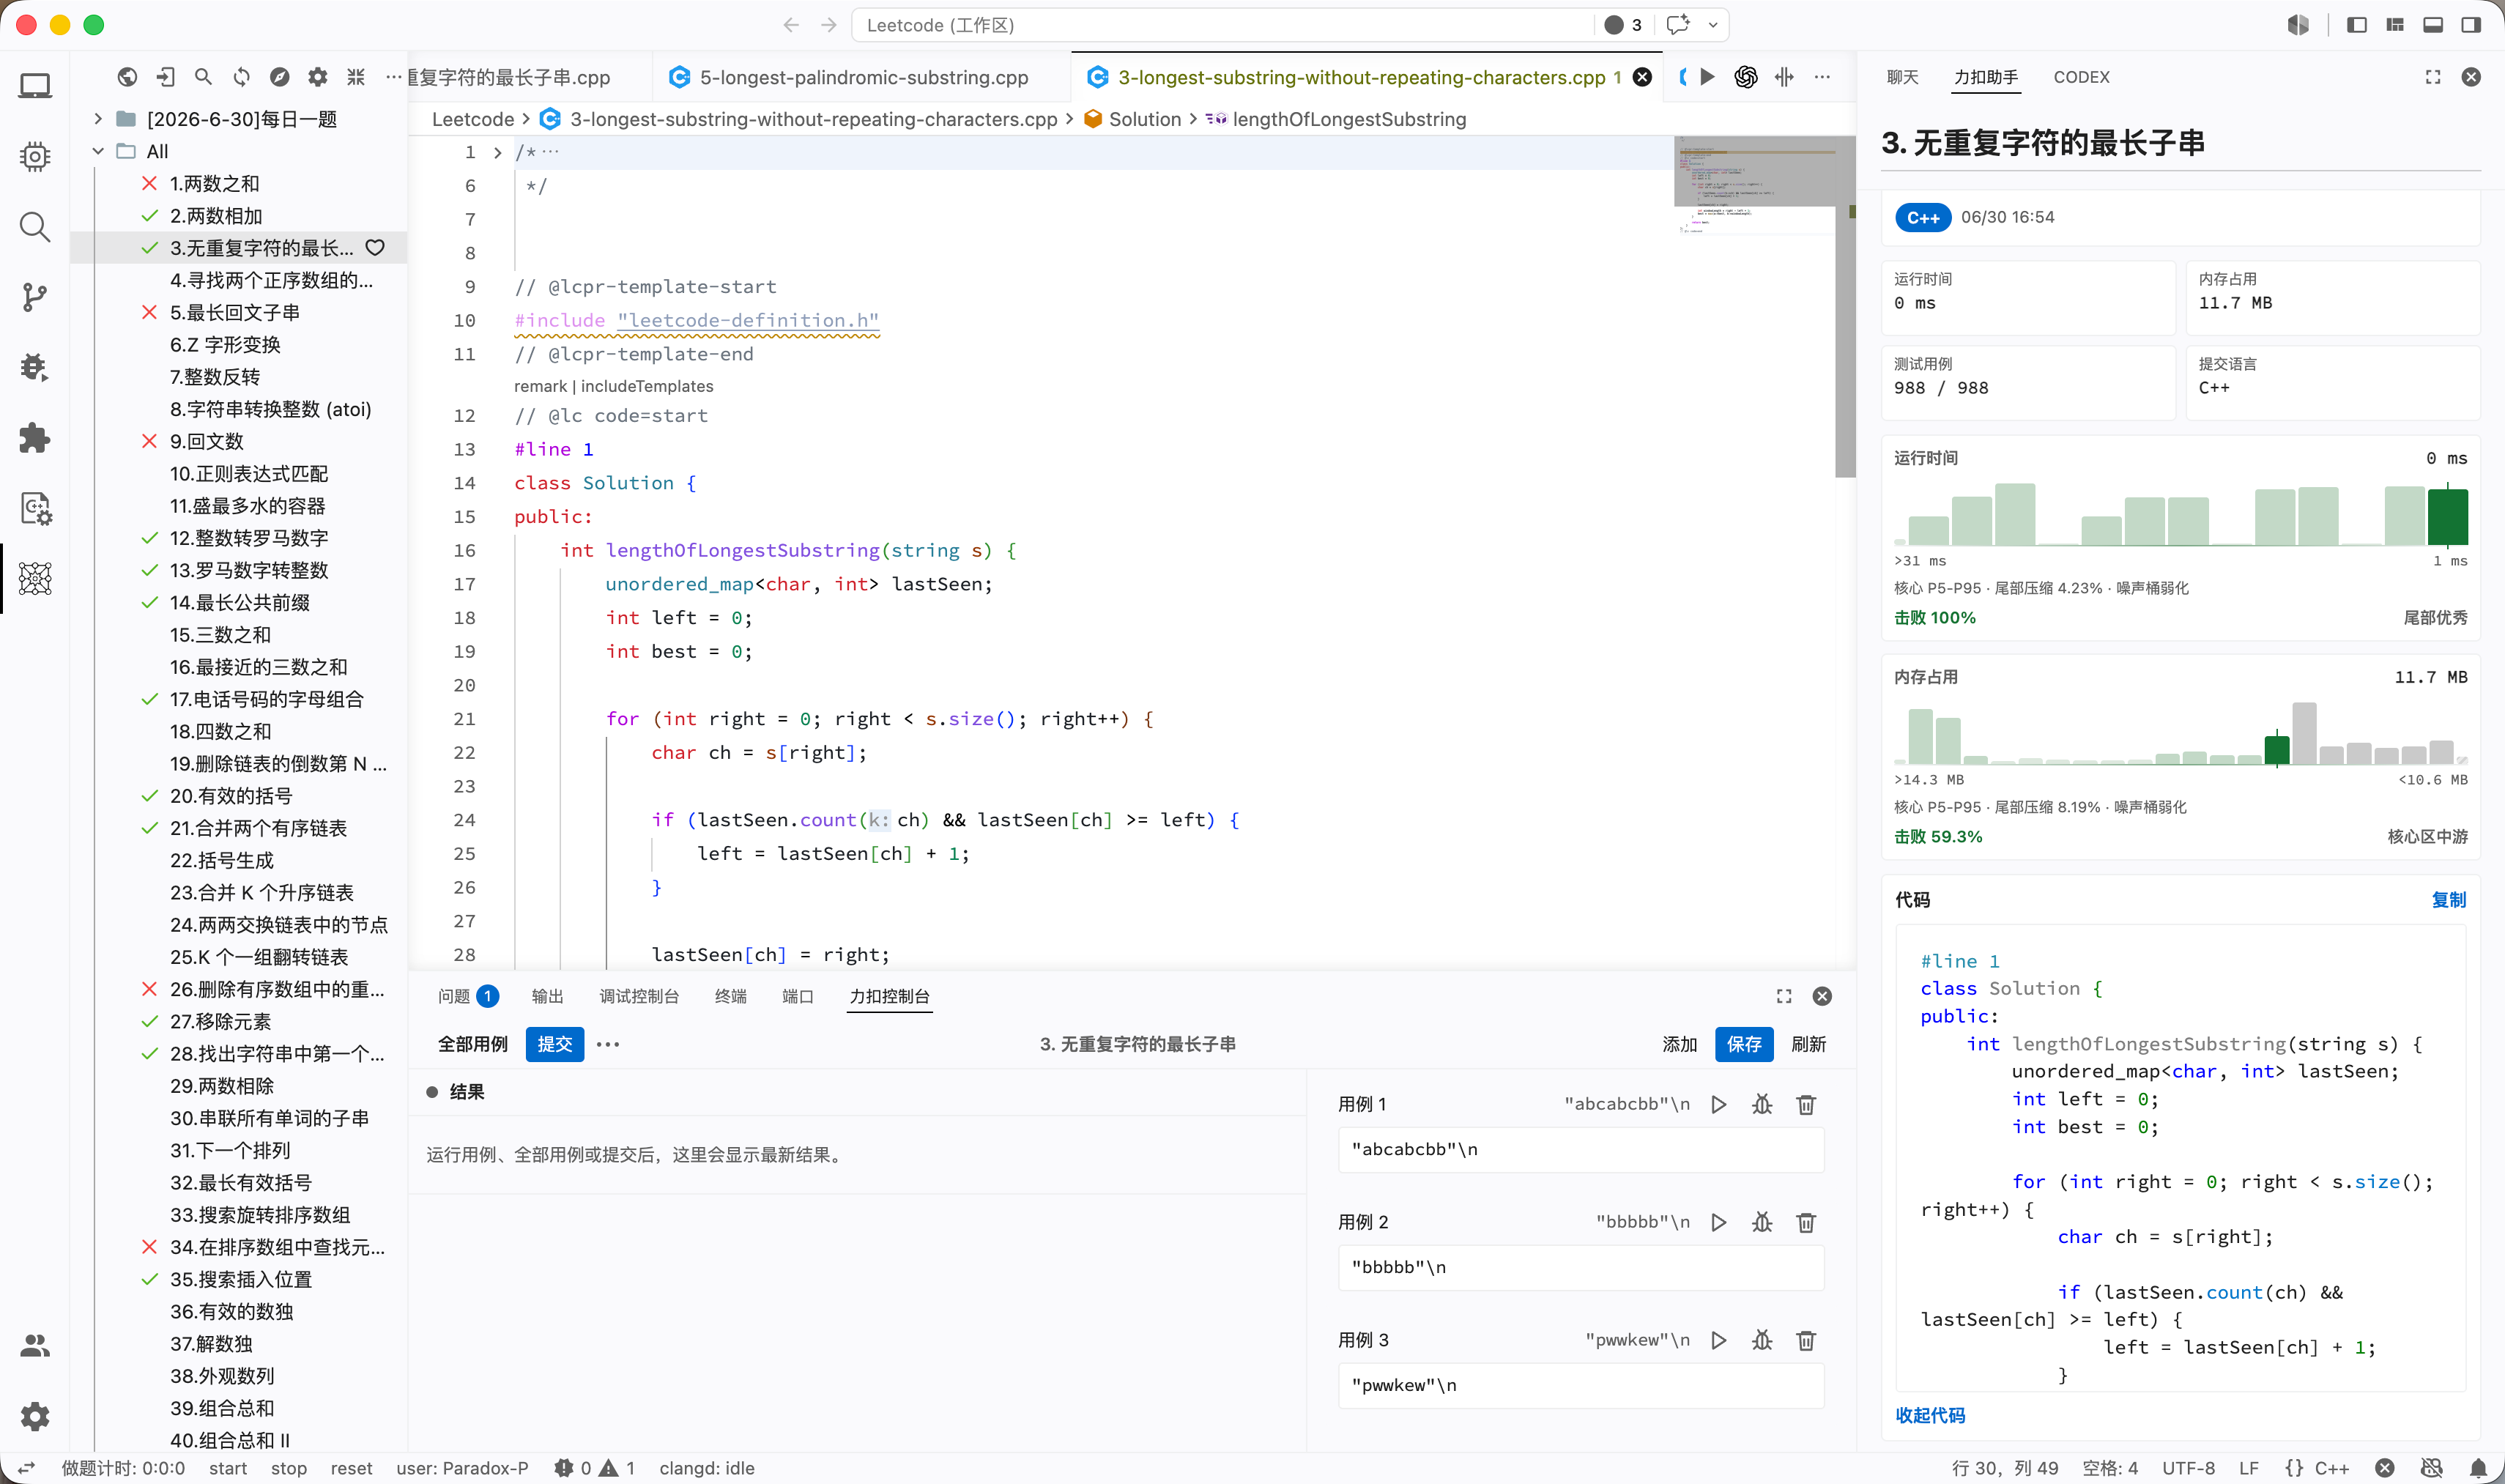
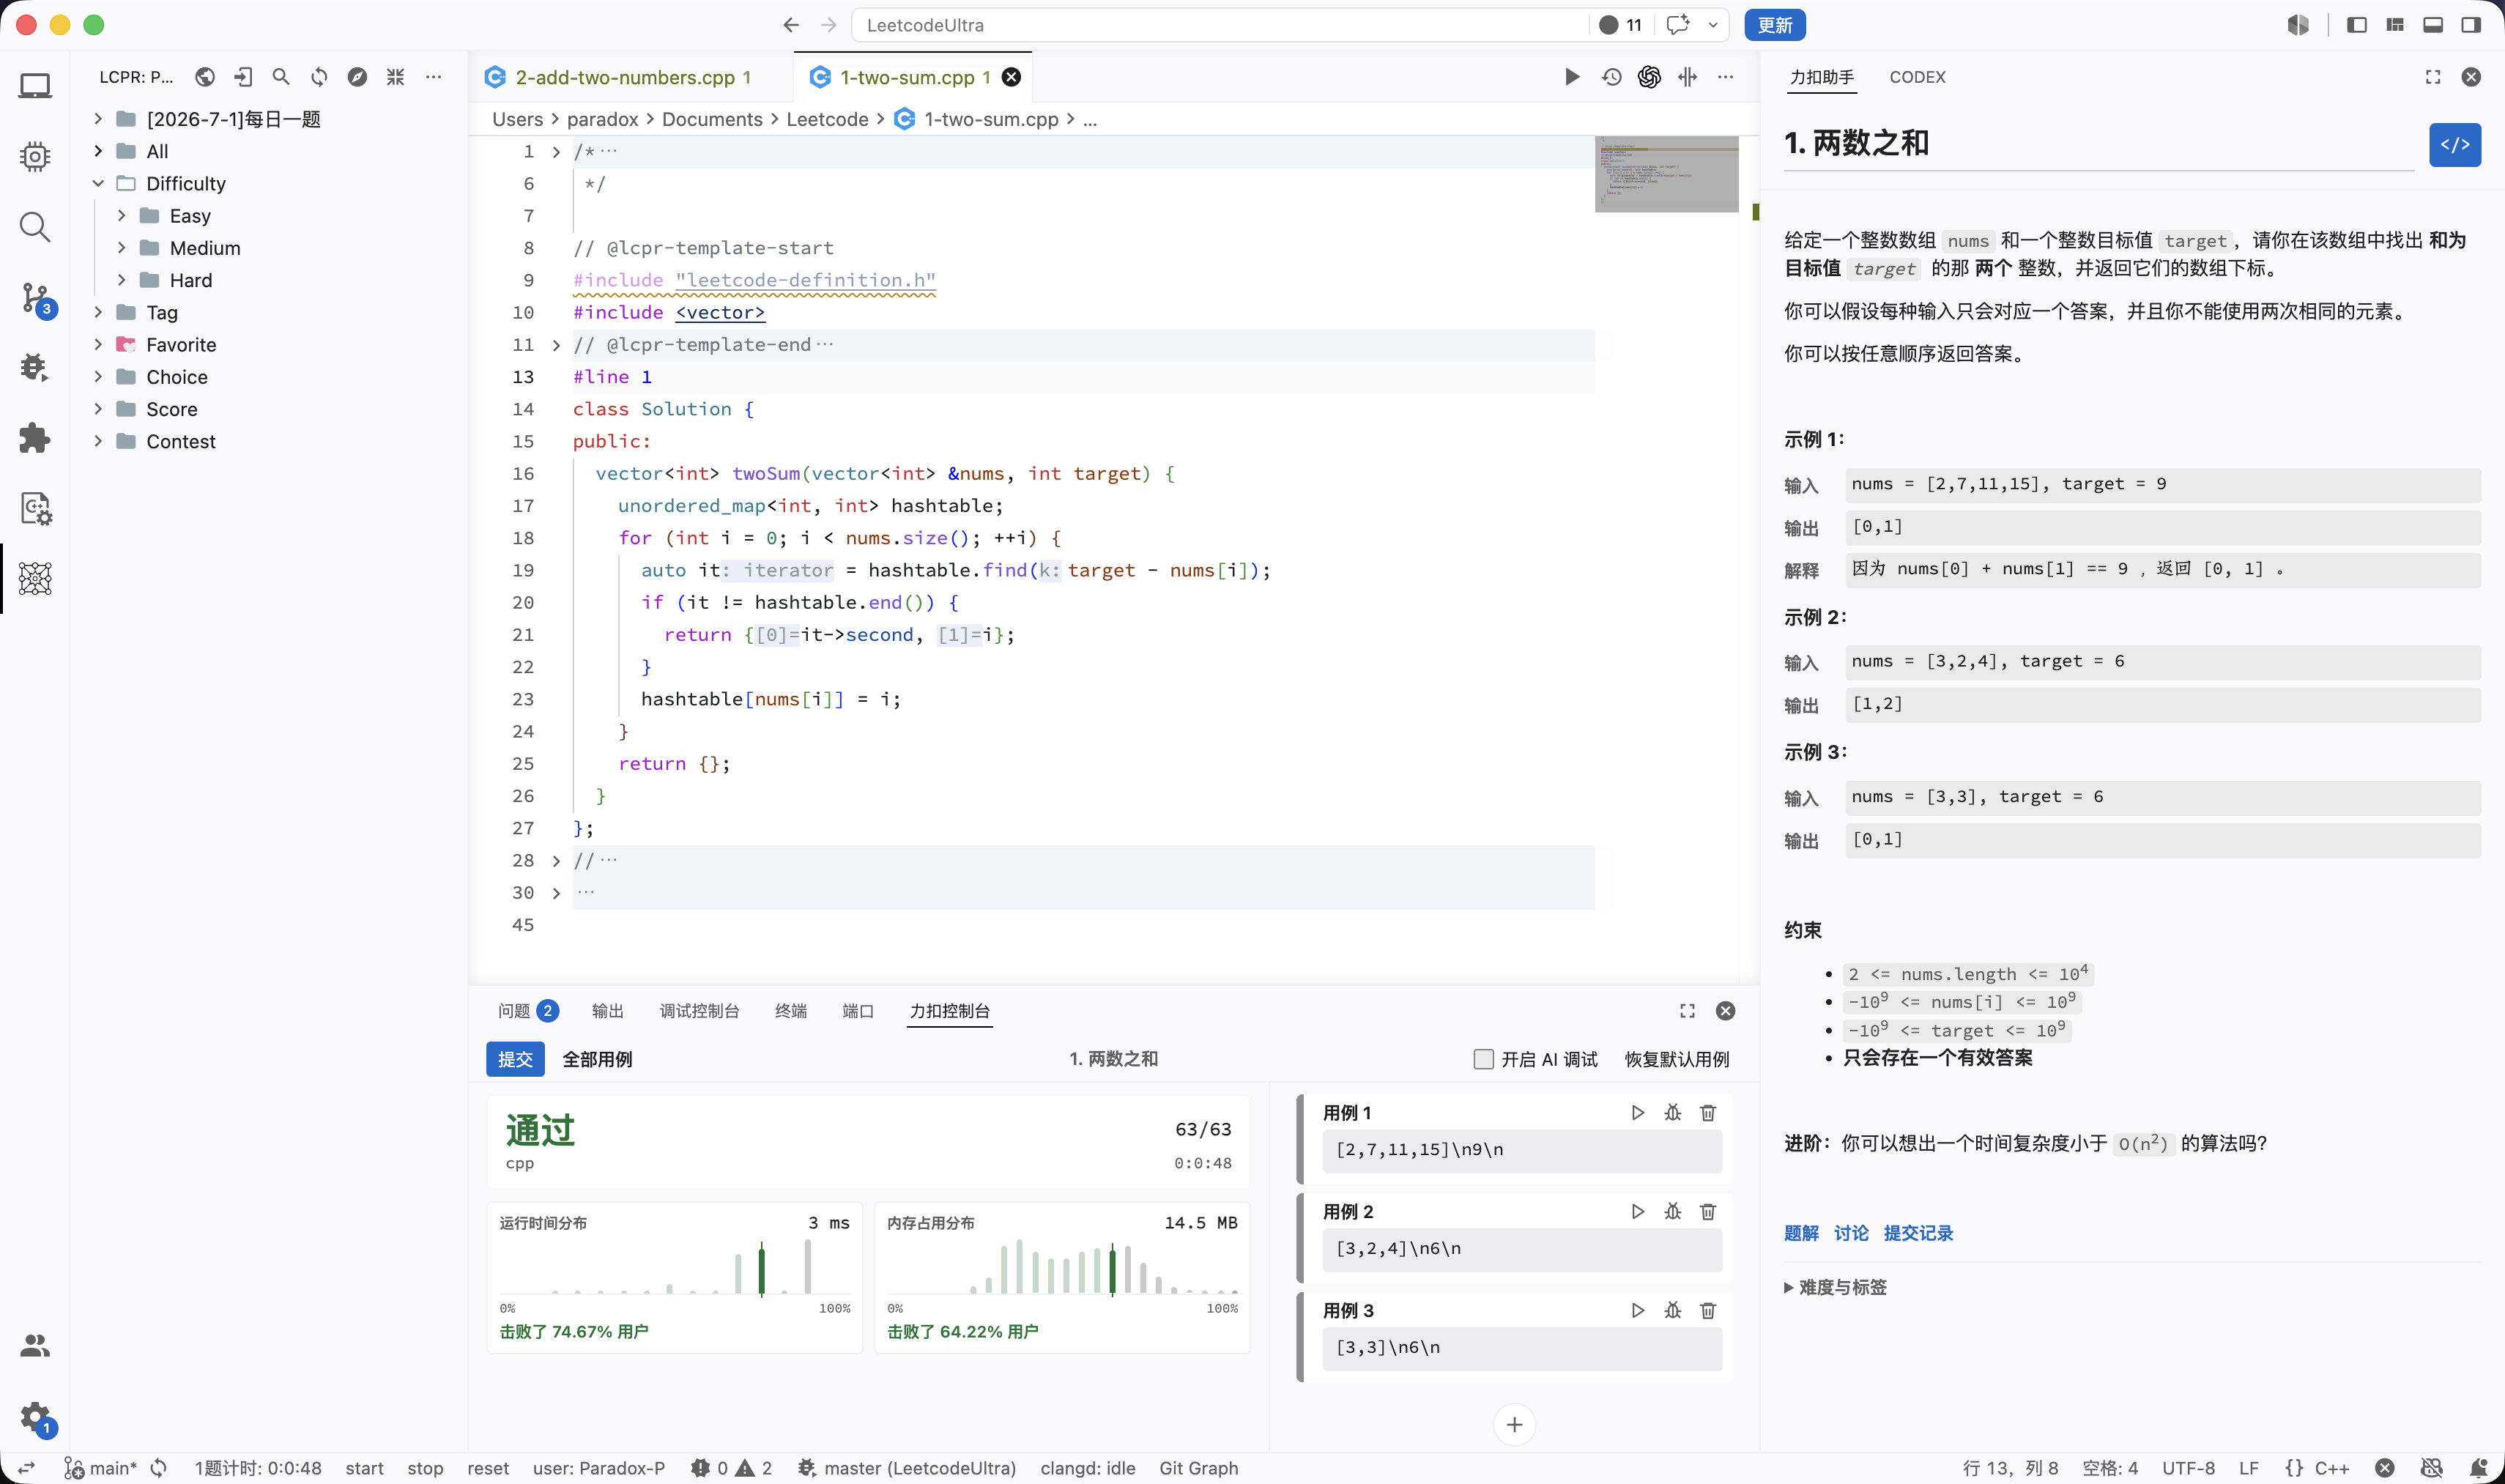
Refresh README marketplace screenshots

diff --git a/README.md b/README.md
@@ -30,6 +30,12 @@ LeetcodeUltra 的目标是把这些碎片整理成一个更像 IDE 的 LeetCode 
 - 通过、答案错误、运行中、请求失败等状态用更清晰的中文结果呈现。
 - Accepted 结果首屏展示关键信息，减少无效滚动。
 
+![Workbench correct case result](./resources/marketplace/console-correct.png)
+
+![Workbench wrong answer result](./resources/marketplace/console-wrong-answer.png)
+
+![Workbench accepted result with performance charts](./resources/marketplace/console-accepted.png)
+
 ### 2. 提交结果和性能分布
 
 Accepted 不只是一个绿色状态。LeetcodeUltra 会把运行时间和内存占用整理成紧凑的性能卡片，让你快速判断这次提交处在什么位置。
@@ -73,6 +79,8 @@ C++ 调试优先复用成熟的 [LeetCode Debugger for C++](https://github.com/x
 - 自动设置入口断点 / 函数断点，避免程序一闪而过。
 - 与 `vadimcn.vscode-lldb` 配合使用。
 
+![C++ debugging with LeetcodeUltra](./resources/marketplace/cpp-debug.png)
+
 推荐安装：
 
 - `xaviercai.vscode-leetcode-cpp-debug`
@@ -95,6 +103,8 @@ AI 调试目前是实验能力，默认关闭。普通 C++ 调试不依赖它，
 当你在控制台勾选 `开启 AI 调试` 后，LeetcodeUltra 会在调试会话启动后打开 AI 调试视图，尝试分析并展示关键变量。它适合继续探索数组、字符串、容器、链表等常见结构的可视化调试，但现阶段仍建议把它当作辅助观察面板，而不是稳定主流程。
 
 这也是为什么开关默认关闭：日常使用先保证本地调试稳定，AI 能力逐步迭代。
+
+![Experimental AI debugging panel](./resources/marketplace/ai-debug-panel.png)
 
 ### 7. 题单、评分和练习管理
 